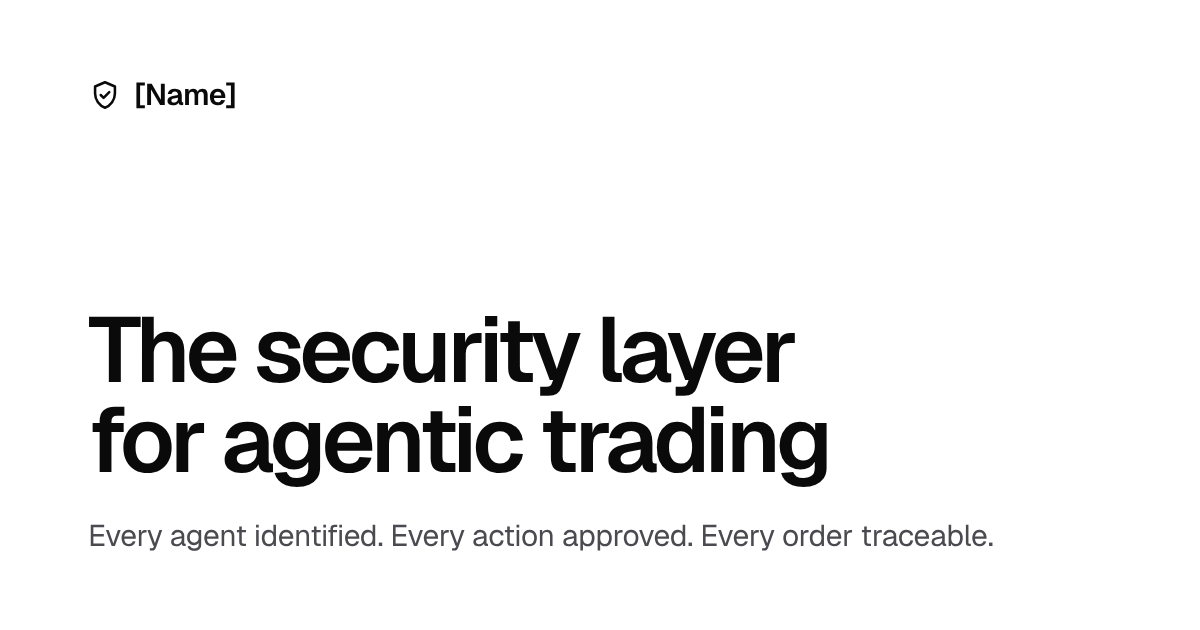
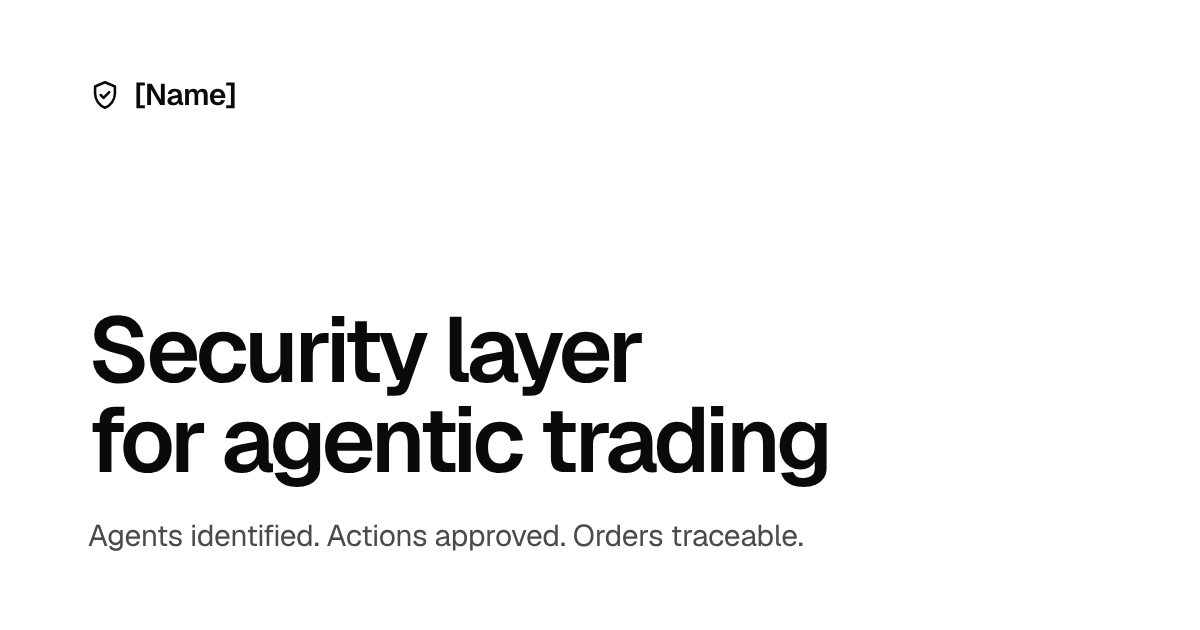
Tighten hero copy: drop "The" and "Every"
- Headline: Security layer for agentic trading
- Subline: Agents identified. Actions approved. Orders traceable.
- Same wording in page title, meta description, footer and share image
- Subline only breaks between sentences

Claude-Session: https://claude.ai/code/session_018Lm8GoFZFcNPrYYkaJQycV

Changed region(s): [[0.0617, 0.4825, 0.6783, 0.6333], [0.0617, 0.8143, 0.8325, 0.8746]]

diff --git a/content/site.ts b/content/site.ts
@@ -18,9 +18,9 @@ export const SITE_URL =
 
 // ── SEO ─────────────────────────────────────────────────────────
 export const seo = {
-  title: `${SITE_NAME} · The security layer for agentic trading`,
+  title: `${SITE_NAME} · Security layer for agentic trading`,
   description:
-    "Every agent identified. Every action approved. Every order traceable.",
+    "Agents identified. Actions approved. Orders traceable.",
   ogImage: "/og-image.png", // placeholder; replace public/og-image.png later
 };
 
@@ -33,9 +33,9 @@ export const header = {
 // ── Hero ────────────────────────────────────────────────────────
 export const hero = {
   eyebrow: "Agentic trading infrastructure",
-  title: "The security layer for agentic trading",
+  title: "Security layer for agentic trading",
   subline:
-    "Every agent identified. Every action approved. Every order traceable.",
+    "Agents identified. Actions approved. Orders traceable.",
   chatLabel: "Agent",
   ctaLabel: "Request a demo",
   secondaryCtaLabel: "How it works",
@@ -145,6 +145,6 @@ export const agents: Agent[] = [
 
 // ── Footer ──────────────────────────────────────────────────────
 export const footer = {
-  tagline: "The security layer for agentic trading.",
+  tagline: "Security layer for agentic trading.",
   copyright: `© ${new Date().getFullYear()} ${SITE_NAME}`,
 };

diff --git a/components/Hero.tsx b/components/Hero.tsx
@@ -1,3 +1,4 @@
+import { Fragment } from "react";
 import { hero } from "@/content/site";
 import ChatDemo from "./ChatDemo";
 import { ArrowRightIcon } from "./icons";
@@ -12,7 +13,15 @@ export default function Hero() {
           <h1 className="mt-5 text-[44px] font-semibold leading-[1] tracking-[-0.045em] text-ink sm:text-[60px] lg:text-[72px] xl:text-[80px]">
             {hero.title}
           </h1>
-          <p className="mt-6 max-w-[34ch] text-lg leading-relaxed text-ink-secondary sm:text-xl">{hero.subline}</p>
+          <p className="mt-6 max-w-[46ch] text-lg leading-relaxed text-ink-secondary [text-wrap:balance] sm:text-xl">
+            {/* Lines only break between sentences */}
+            {hero.subline.split(/(?<=\.)\s+/).map((sentence, i) => (
+              <Fragment key={i}>
+                {i > 0 && " "}
+                <span className="whitespace-nowrap">{sentence}</span>
+              </Fragment>
+            ))}
+          </p>
 
           <div className="mt-9 flex flex-wrap items-center gap-x-6 gap-y-4">
             {/* TODO: replace this anchor with a real demo request form (e.g. email + company) */}

diff --git a/README.md b/README.md
@@ -1,6 +1,6 @@
 # [Name]: landing page
 
-Landing page for "[Name], the security layer for agentic trading".
+Landing page for "[Name]: security layer for agentic trading".
 Built with Next.js (App Router), TypeScript, Tailwind CSS and Framer Motion. It's exported as a
 static site, so it's fast and cheap to host on Vercel.
 
